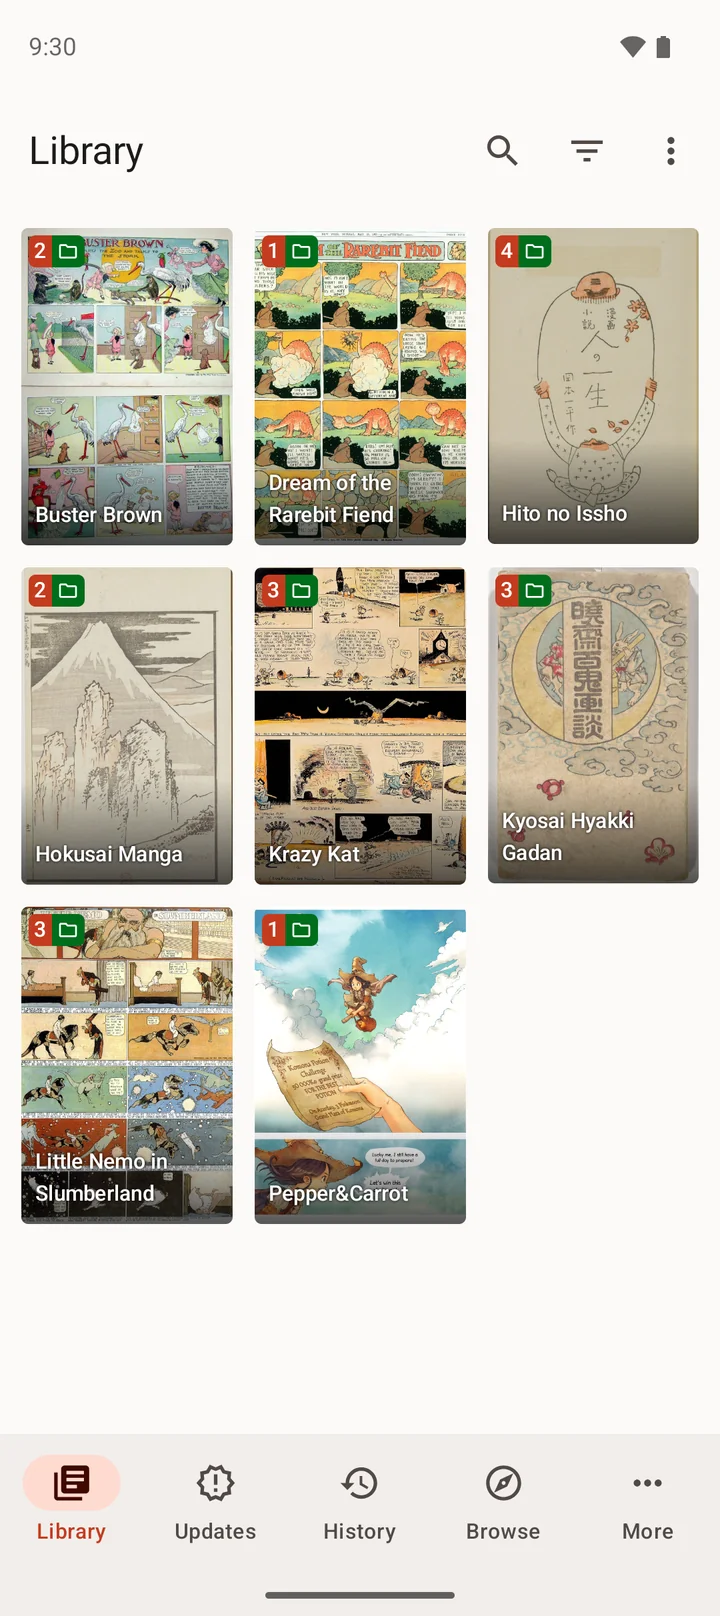
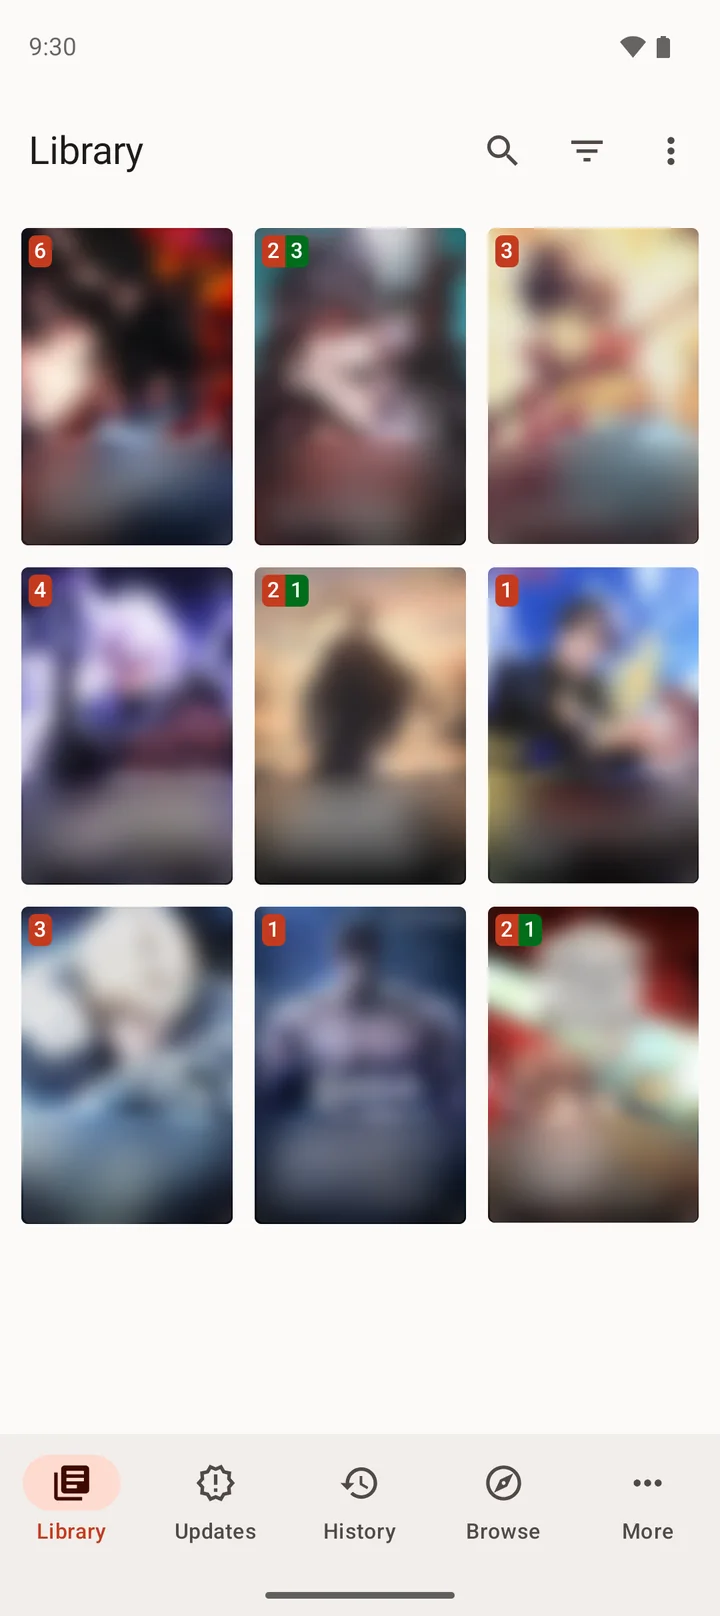
README in the style of Mihon's, with the website's screenshots

diff --git a/README.md b/README.md
@@ -1,17 +1,29 @@
+<div align="center">
+
+<a href="https://shinsaikou.com">
+    <img src="./.github/assets/logo.png" alt="Saikou logo" title="Saikou logo" width="80"/>
+</a>
+
 # Saikou
 
-Saikou is a manga reader for Android. It reads from third-party extensions built for the Tachiyomi
-extension API (lib 1.4 and 1.6), from your own files, and from what you have downloaded, and it
-keeps your library in step across devices through your own Google Drive or WebDAV server.
+### Fast, private manga reader
+Read manga, webtoons and comics from the extensions you choose, your own files and your downloads,
+and keep your library in step across devices through your own Google Drive or WebDAV server.
 
-No telemetry, no crash reporting, no ads and no server of its own. The only network traffic is to
-the sources you read, the extension catalogs you add, MyAnimeList and AniList if you link them,
-Google Drive or your WebDAV server if you turn on sync, and GitHub: Saikou asks it for the latest
-release at most once a day (**Settings > Advanced > Check for updates automatically** turns that
-off) or when you tap Check for updates, and downloads an update from it only when you tap Update.
+[![GitHub downloads](https://img.shields.io/github/downloads/ShinSaikou/saikou/total?label=downloads&labelColor=27303D&color=0D1117&logo=github&logoColor=FFFFFF&style=flat)](https://github.com/ShinSaikou/saikou/releases)
 
-> Status: early. The current release is 0.0.1, a closed test. Expect rough edges, and back up your
-> library before you try it.
+[![CI](https://img.shields.io/github/actions/workflow/status/ShinSaikou/saikou/ci.yml?labelColor=27303D)](https://github.com/ShinSaikou/saikou/actions/workflows/ci.yml)
+[![License: Apache-2.0](https://img.shields.io/github/license/ShinSaikou/saikou?labelColor=27303D&color=0877d2)](/LICENSE)
+
+[Website](https://shinsaikou.com) · [User guide](https://shinsaikou.com/docs/) · [Privacy policy](https://shinsaikou.com/privacy-policy)
+
+## Download
+
+[![Saikou Stable](https://img.shields.io/github/release/ShinSaikou/saikou.svg?maxAge=3600&label=Stable&labelColor=06599d&color=043b69)](https://github.com/ShinSaikou/saikou/releases/latest)
+
+*Requires Android 8.0 or higher on a 64-bit device (arm64 or x86_64).*
+
+*Early release: expect rough edges, and back up your library before you try it.*
 
 <p align="center">
   <picture>
@@ -20,30 +32,38 @@ off) or when you tap Check for updates, and downloads an update from it only whe
   </picture>
   <img src=".github/assets/screenshots/entry.webp" alt="An entry's page: cover, author, status, description, genres and the chapter list" width="200">
   <img src=".github/assets/screenshots/reader.webp" alt="The paged reader with its controls open: title, chapter, page slider and actions" width="200">
-  <img src=".github/assets/screenshots/long-strip.webp" alt="The long-strip reader showing a colour webcomic" width="200">
+  <img src=".github/assets/screenshots/long-strip.webp" alt="The long-strip reader showing a colour page" width="200">
 </p>
-<p align="center"><sub>Screenshots of Saikou 0.0.1 on Android. Pepper&amp;Carrot by David Revoy, <a href="https://www.peppercarrot.com">www.peppercarrot.com</a>, licensed under <a href="https://creativecommons.org/licenses/by/4.0/">CC BY 4.0</a> (episode 6 English translation by Alex Gryson; pages resized). The other comics are in the public domain: works by Winsor McCay, George Herriman, R. F. Outcault, Katsushika Hokusai, Okamoto Ippei and Kawanabe Kyosai (photographs of the Kyosai book by The Metropolitan Museum of Art, CC0).</sub></p>
+<p align="center"><sub>Screenshots of Saikou 0.0.1 on Android, with covers, titles and pages blurred.</sub></p>
 
 ## Features
 
-- **Library** with categories and one level of sub-categories, filters, sorting, a fast search
-  and per-entry edits of the title and description.
-- **Browse** sources from the extension catalogs you add, with global search, a source filter,
-  pinned sources, multi-select and migration of entries between sources.
-- **Reader** in paged and long-strip (webtoon) modes, with tall-strip splitting, animated images,
+<div align="left">
+
+* Third-party extensions built for the Tachiyomi extension API (lib 1.4 and 1.6), from the catalogs
+  you add, with global search, pinned sources, multi-select and migration between sources.
+* A reader with paged and long-strip (webtoon) modes, tall-strip splitting, animated images,
   double-page handling, page notes and crop borders.
-- **Downloads** as folders of pages, download ahead, automatic cleanup rules, and a copy of an
-  existing downloads folder from a compatible reader, whose CBZ chapters open as they are.
-- **Local source** for CBZ, ZIP, CBR, RAR, CB7, 7z, CBT, TAR and EPUB files and folders of images on
-  the device.
-- **Backup and restore** in the `.tachibk` format, read and written as a stream, with a report of
-  missing sources and trackers before anything is restored.
-- **Sync** of the library, categories, reading progress, history, bookmarks and tracking between
-  devices through Google Drive's private app folder (`drive.appdata` only) or a WebDAV server you
-  run. Settings and extensions stay on each device.
-- **Tracking** with MyAnimeList and AniList.
-- **Updates, history and statistics**, an app lock, a secure screen option, and a choice of
-  themes.
+* Local reading of CBZ, ZIP, CBR, RAR, CB7, 7z, CBT, TAR and EPUB files and folders of images.
+* Categories with one level of sub-categories, filters, sorting, a fast search and per-entry edits
+  of the title and description.
+* Downloads as folders of pages, download ahead, automatic cleanup rules, and a copy of an existing
+  downloads folder from a compatible reader.
+* Sync of the library, categories, reading progress, history, bookmarks and tracking between
+  devices, through Google Drive's private app folder or a WebDAV server you run.
+* Tracker support: [MyAnimeList](https://myanimelist.net/) and [AniList](https://anilist.co/).
+* Backup and restore in the `.tachibk` format, with a report of missing sources and trackers
+  before anything is restored.
+* Library updates, history, statistics, an app lock, a secure screen option and a choice of themes.
+* Updates from this repository's releases: Saikou checks at most once a day, or when you tap Check
+  for updates, and downloads one only when you tap Update.
+* No telemetry, no crash reporting, no ads and no server of its own.
+
+Saikou ships no extensions and no catalog. Add a catalog you trust in **Browse > Extensions**, or
+restore a backup that already names one. Extensions are third-party code that runs inside the app,
+so only install ones you trust.
+
+</div>
 
 ## How it compares
 
@@ -55,6 +75,8 @@ one place Saikou loses, storage, stays in.
   <source media="(prefers-color-scheme: dark)" srcset=".github/assets/comparison-dark.svg">
   <img src=".github/assets/comparison-light.svg" alt="Benchmark comparison of Saikou 0.0.1 and Mihon v0.21.0; the same numbers are in the table below" width="720">
 </picture>
+
+<div align="left">
 
 <details>
 <summary>The numbers as a table</summary>
@@ -89,76 +111,54 @@ Next to other readers:
 | Reads Tachiyomi extensions | Yes, lib 1.4 and 1.6 | Yes | Yes | Yes | Yes, one of several engines | No, its own sources |
 | Sync between devices | Built in: Google Drive or WebDAV | No | Google Drive, WebDAV or a SyncYomi server | Google Drive or a SyncYomi server | A self-hosted sync server | iCloud |
 | License | Apache-2.0 | Apache-2.0 | Apache-2.0 | Apache-2.0 | Apache-2.0 | GPL-3.0 |
-| Latest release | 0.0.1, closed test | v0.21.3, 2026-10-25 | v1.14.1, 2026-07-17 | 1.13.2, 2026-07-13 | v0.9.9, 2026-10-12 | v0.9-4, 2026-10-16 |
+| Latest release | 0.1.0, 2026-11-01 | v0.21.3, 2026-10-25 | v1.14.1, 2026-07-17 | 1.13.2, 2026-07-13 | v0.9.9, 2026-10-12 | v0.9-4, 2026-10-16 |
 
 <sub>Features as each project documents them (checked 2026-09-10); licenses and releases read from
 each project's GitHub repository on 2026-10-30.</sub>
 
-## Install
-
-There is no store listing yet. Build the APK from source (below) and install it with
-`adb install`. Saikou needs Android 8.0 (API 26) or later.
-
-Saikou ships no extensions and no catalog. Add a catalog you trust in **Browse > Extensions**, or
-restore a backup that already names one. Extensions are third-party code that runs inside the app,
-so only install ones you trust.
-
-## Build
-
-You need JDK 17, a JVM 21 for the Gradle daemon (`gradle/gradle-daemon-jvm.properties` selects
-it), and the Android SDK with platform 37 installed (`sdkmanager "platforms;android-37.0"`).
-
-```bash
-export ANDROID_HOME="$HOME/Android/Sdk"
-./gradlew :app:assembleDebug
-adb install -r app/build/outputs/apk/debug/app-debug.apk
-```
-
-A release build signs with the debug key unless you pass `-Psaikou.ownerSigning=true` with a
-`keystore.properties` in place; see [CONTRIBUTING.md](CONTRIBUTING.md) for that, for the tests and
-for the checks a change has to pass.
-
-## Project layout
-
-| Module | What lives there |
-|---|---|
-| `:app` | the application, its screens and navigation |
-| `:reader` | the reader shell, viewers and page pipeline |
-| `:extensions` | the extension API, loader, trust checks and catalog clients |
-| `:source-contract` | what a source implementation can see |
-| `:sources:local` | the Local source |
-| `:domain` | models, repository interfaces and interactors |
-| `:data` | SQLDelight database and repository implementations |
-| `:downloads` | the download engine and the copy from a downloads folder |
-| `:library-update` | the library update worker |
-| `:backup` | `.tachibk` import and export |
-| `:sync` | Google Drive sync |
-| `:tracking` | MyAnimeList and AniList |
-| `:presentation-core` | shared Compose components and themes |
-| `:core:common`, `:core:archive`, `:core:metadata` | shared plumbing, archives, ComicInfo |
-| `:i18n` | string resources |
-| `:bench` | macrobenchmarks |
-
-`tools/` holds the test, benchmark and release tooling (Python and shell).
-
-## Related projects
-
-- [saikou-image](https://github.com/ShinSaikou/saikou-image): the image utilities the reader and
-  the download engine use, published as a library.
-- The website, the [user guide](https://shinsaikou.com/docs/) and the
-  [privacy policy](https://shinsaikou.com/privacy-policy) live at
-  <https://shinsaikou.com/>.
+</div>
 
 ## Contributing
 
-Bug reports, fixes and ideas are welcome. Read [CONTRIBUTING.md](CONTRIBUTING.md) first, and the
-[Code of Conduct](CODE_OF_CONDUCT.md). Report security problems privately, as
-[SECURITY.md](SECURITY.md) describes, not in a public issue.
+[Code of conduct](./CODE_OF_CONDUCT.md) · [Contributing guide](./CONTRIBUTING.md) · [Security policy](./SECURITY.md)
 
-## License
+Pull requests are welcome. For major changes, please open an issue first to discuss what you would like to change.
 
-Saikou is licensed under the [Apache License, Version 2.0](LICENSE). It includes code from other
-projects under their own licenses; [NOTICE](NOTICE) lists them.
+Before reporting a new issue, take a look at the [FAQ](https://shinsaikou.com/docs/faq), the [changelog](./CHANGELOG.md) and the already opened [issues](https://github.com/ShinSaikou/saikou/issues). Report security problems privately, as the security policy describes, not in a public issue.
 
-Saikou does not host, provide or endorse any content. Extensions and the sources they read are
-maintained by third parties.
+### Repositories
+
+[![ShinSaikou/saikou-image - GitHub](https://github-stats-extended.vercel.app/api/pin/?username=ShinSaikou&repo=saikou-image&bg_color=161B22&text_color=c9d1d9&title_color=0877d2&icon_color=0877d2&border_radius=8&hide_border=true&description_lines_count=2)](https://github.com/ShinSaikou/saikou-image/)
+[![ShinSaikou/saikou-site - GitHub](https://github-stats-extended.vercel.app/api/pin/?username=ShinSaikou&repo=saikou-site&bg_color=161B22&text_color=c9d1d9&title_color=0877d2&icon_color=0877d2&border_radius=8&hide_border=true&description_lines_count=2)](https://github.com/ShinSaikou/saikou-site/)
+
+### Credits
+
+Saikou is built on [Mihon](https://github.com/mihonapp/mihon) and the Tachiyomi project before it. Thank you to everyone who made them.
+
+### Disclaimer
+
+The developer of this application does not have any affiliation with the content providers available, and this application hosts zero content. Extensions and the sources they read are maintained by third parties.
+
+### License
+
+<pre>
+Copyright © 2015 Javier Tomás
+Copyright © 2024 Mihon Open Source Project
+Copyright © 2026 The Saikou authors
+
+Licensed under the Apache License, Version 2.0 (the "License");
+you may not use this file except in compliance with the License.
+You may obtain a copy of the License at
+
+http://www.apache.org/licenses/LICENSE-2.0
+
+Unless required by applicable law or agreed to in writing, software
+distributed under the License is distributed on an "AS IS" BASIS,
+WITHOUT WARRANTIES OR CONDITIONS OF ANY KIND, either express or implied.
+See the License for the specific language governing permissions and
+limitations under the License.
+</pre>
+
+Saikou includes code from other projects under their own licenses; [NOTICE](NOTICE) lists them.
+
+</div>

diff --git a/CONTRIBUTING.md b/CONTRIBUTING.md
@@ -81,6 +81,29 @@ given, so a fresh clone can always build a release:
 With the property set, every release task fails when the file is absent or incomplete, and a blank
 or unknown value fails the configuration rather than turning signing on.
 
+## Project layout
+
+| Module | What lives there |
+|---|---|
+| `:app` | the application, its screens and navigation |
+| `:reader` | the reader shell, viewers and page pipeline |
+| `:extensions` | the extension API, loader, trust checks and catalog clients |
+| `:source-contract` | what a source implementation can see |
+| `:sources:local` | the Local source |
+| `:domain` | models, repository interfaces and interactors |
+| `:data` | SQLDelight database and repository implementations |
+| `:downloads` | the download engine and the copy from a downloads folder |
+| `:library-update` | the library update worker |
+| `:backup` | `.tachibk` import and export |
+| `:sync` | Google Drive sync |
+| `:tracking` | MyAnimeList and AniList |
+| `:presentation-core` | shared Compose components and themes |
+| `:core:common`, `:core:archive`, `:core:metadata` | shared plumbing, archives, ComicInfo |
+| `:i18n` | string resources |
+| `:bench` | macrobenchmarks |
+
+`tools/` holds the test, benchmark and release tooling (Python and shell).
+
 ## Testing
 
 Unit tests are JUnit 5 with kotest assertions, mockk, turbine and `kotlinx-coroutines-test`. They
